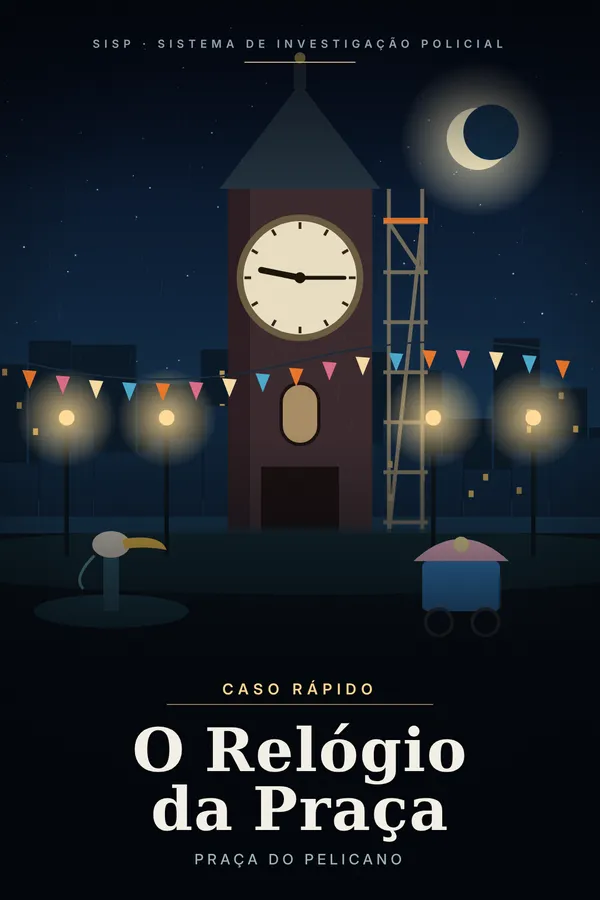
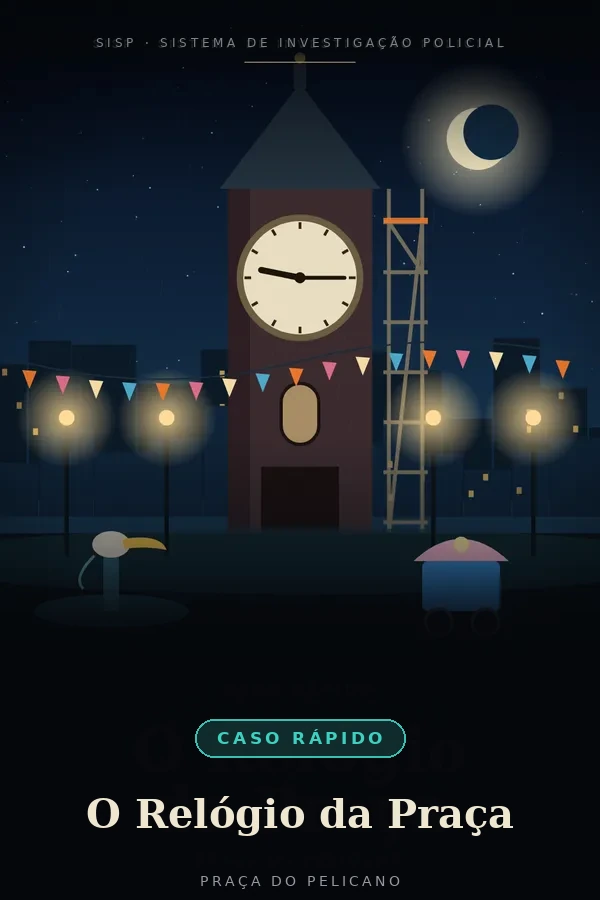
Capas padronizadas: mesmo cabeçalho, mesma fonte e arranjo do título e do local, e etiqueta colorida do tipo de caso (treinamento, comum, rápido, linha do tempo e arquivo reservado) (#146)
Claude-Session: https://claude.ai/code/session_015tfXN2LHrSJNSLNMARGbDc

diff --git a/js/02-casos-lista.js b/js/02-casos-lista.js
@@ -1,4 +1,4 @@
-window.IMV=id=>({e1:'?v=2',e2:'?v=2',e3:'?v=3',e4:'?v=4',c6:'?v=4',c0:'?v=2',t1:'?v=2',c5:'?v=2'}[id]||'');
+window.IMV=id=>({c0:'?v=5',c1:'?v=5',c2:'?v=5',c3:'?v=5',c4:'?v=5',c5:'?v=5',c6:'?v=5',r1:'?v=5',r2:'?v=5',r3:'?v=5',r4:'?v=5',t1:'?v=5',t2:'?v=5',t3:'?v=5',t4:'?v=5',e1:'?v=5',e2:'?v=5',e3:'?v=5',e4:'?v=5'}[id]||'');
 /* primeiro nome sem deixar título sozinho (Seu, Dona, Irmã, Frei, Comandante...) */
 function nm1(n){const p=String(n).split(' ');if(/^(Dra?\.?|Sra?\.?)$/.test(p[0])&&p[1])return p[1];if(/^(Seu|Sua|Dona|Ir[mM][ãa]o?|Frei|Madre|Padre|Dom|Comandante|Cmte\.?|Capit[ãa]o|Doutor|Doutora|Madame|Mestre|Palha[cç]o)$/.test(p[0])&&p[1])return p[0]+' '+p[1];return p[0]}
 const CASES=[mkC0(),Object.assign(mkC1(),{id:'c1',key:'sisp104b',n:'A Última Xícara',num:'Inquérito nº 104/2026',place:'Mansão Sterling',blurb:'Um bioquímico morre num escritório trancado por dentro, numa noite de tempestade. Três suspeitos e um chá frio.',dif:2,t0:1392,dead:1800,thr:4,top:9,start:'office',LOCT:{copa:'q_c1',lab:'q_e1',vault:'q_e2'},LN:{copa:'Copa e portaria',lab:'Laboratório',vault:'Cofre oculto'},
